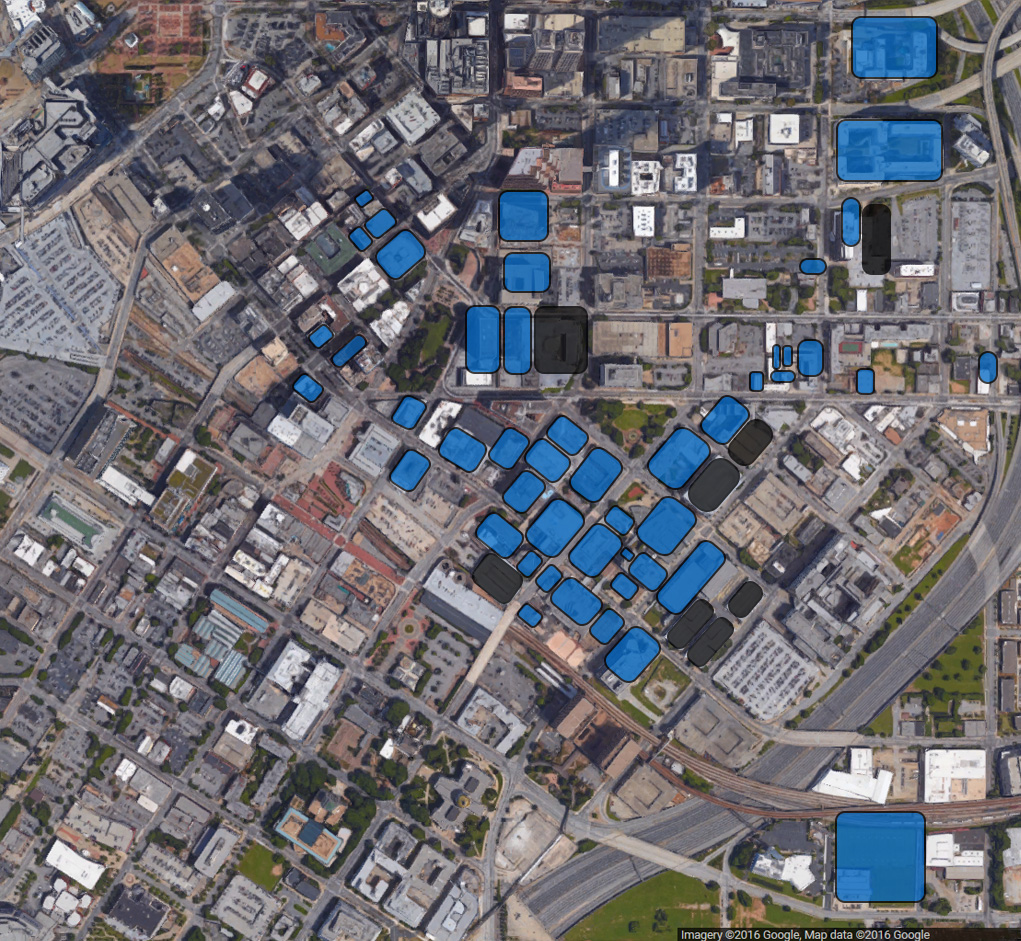
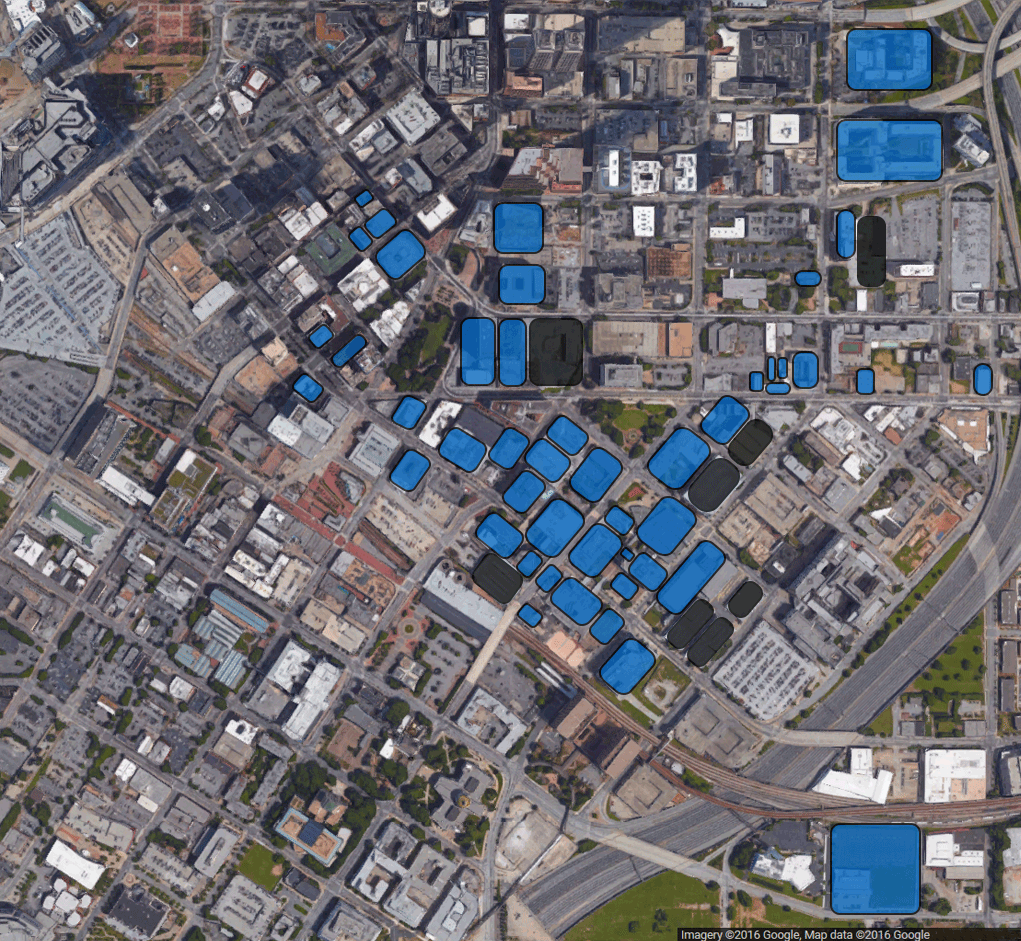
Add last 2 slides

diff --git a/slider.js b/slider.js
@@ -92,6 +92,40 @@ $(document).ready(function(){
 			{ data : [471.9,576.5,490.1,553.2,523.1,580.8,504,603.8], fillColor : '000000'}
 		],
 		title : 'Georgia State University Campus 1990'
+	},{
+		set : 8,
+		imageUrl : './images/map-7.png',
+		points : [
+			{ data : [836,182,836,119,943,119,943,182] },
+			{ data : [375,257,405.5,229,426,252,395.5,280] },
+			{ data : [699.9,425.5,726.8,395.5,749.6,415,723.5,445.5] },
+			{ data : [728,450.5,756,419,773,435.5,745,466], fillColor: '000000' },
+			{ data : [655.5,596.5,705.8,539.9,725.1,558.7,676.7,615.2] }
+		],
+		title : 'Georgia State University Campus 2000-2009' 
+	},
+	{
+		set : 9,
+		imageUrl : './images/map-8.png',
+		points : [
+			{ data : [846,91,846,28,933,28,933,91] },
+			{ data : [493,254,493,202,544,202,544,254] },
+			{ data : [836,259,836,209,856,209,856,259] },
+			{ data : [857,287,857,216,886,216,886,287], fillColor : '000000' },
+			{ data : [498,305,498,264,546,264,546,305] },
+			{ data : [794,287,794,270,822,270,822,287] },
+			{ data : [460,386,460,317,496,317,496,386] },
+			{ data : [498,387,498,318,527,318,527,387] },
+			{ data : [529,386,529,318,583,318,583,386], fillColor : '000000' },
+			{ data : [767,382,767,356,776,356,776,382] },
+			{ data : [777,379,777,357,788,357,788,379] },
+			{ data : [765,395,765,382,791,382,791,392] },
+			{ data : [792,389,792,351,819,351,819,389] },
+			{ data : [973,396,973,363,993,363,993,396] },
+			{ data : [599,672.5,631,638,656,660,624,695] },
+			{ data : [830,915,830,823,921,823,921,915] }
+		],
+		title : 'Georgia State University Campus 2010-2015'
 	}];
 
 	var ScaleArrayOfValues = function(arr) {

diff --git a/index.html b/index.html
@@ -53,6 +53,12 @@
 				<li>
 					<img class="img_map"/>
 				</li>
+				<li>
+					<img class="img_map"/>
+				</li>
+				<li>
+					<img class="img_map"/>
+				</li>
 			</ul>
 		</div>
 	</div>
